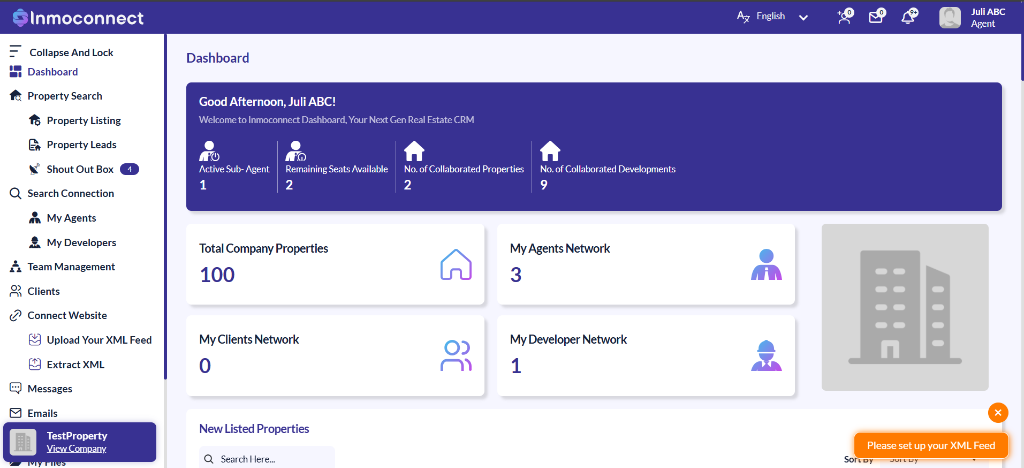
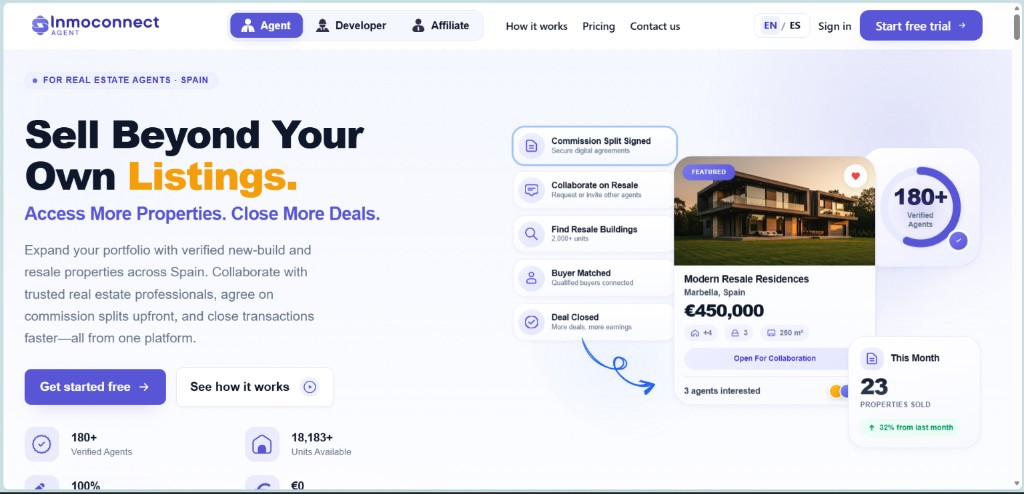
Updated Changes

diff --git a/index.html b/index.html
@@ -611,7 +611,7 @@
         </div>
       </div>
       <div class="footer-bottom">
-        <p>© 2025 Jayant Sharma. All rights reserved.</p>
+        <p>© 2026 Jayant Sharma. All rights reserved.</p>
         <p>Full Stack Developer · Web & App Development · AI Integration</p>
       </div>
     </div>
